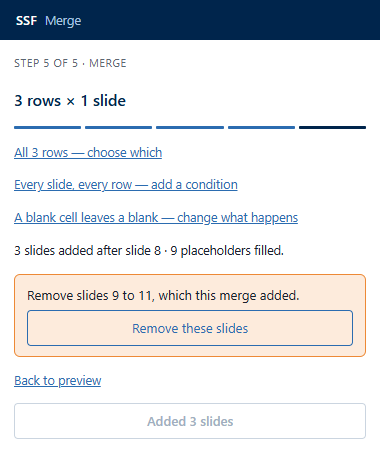
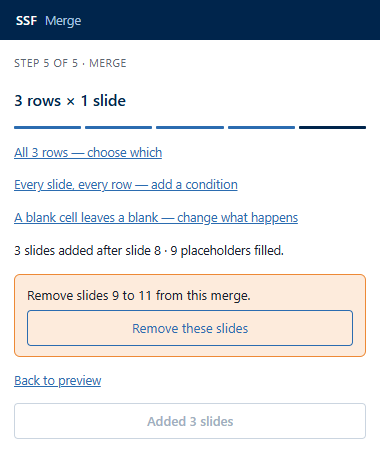
A one-slide block said "Use slides 2 to 2" (#218)
Found in the real-host round of 2026-09-02.

A template block of a single slide put a range with itself at both ends
on the button — which reads as something the user mistyped rather than a
sentence the pane meant.

**Everything around it already got this right.** The take-back card says
"Remove slide 3 from this merge", the summary says "1 slide added", and
`blockName` has handled `from === to` since it was written. The manual's
own screenshot made it plain: the heading read **"Slide 3"** directly
above a button reading **"Use slides 3 to 3"**. The button was the one
place that built the phrase itself instead of asking. It asks
`blockName` now, lower-cased because the label is mid-sentence; the
multi-slide wording is unchanged.

`docs/MANUAL.md` documented the defect as though it were correct —
twice, including the alt text of the picture beside it. Both corrected,
and the pictures regenerated with `scripts/manual-shots.mjs`.

**Two of the regenerated pictures had drifted for a different reason**,
recorded here rather than quietly committed:

- `step-4-preview.png` still said *"removing the preview deletes them"*
— now *"deletes it"*
- `step-5-done.png` still said *"which this merge added"* — now *"from
this merge"*

Both were reworded in the release passes that landed before this, and
neither picture was refreshed with the copy. I checked each changed
region pixel-by-pixel before committing, rather than assuming the
regeneration was inert.
[…]

Changed region(s): [[0.4053, 0.6154, 0.7816, 0.6769]]

diff --git a/src/pane/steps.ts b/src/pane/steps.ts
@@ -14,7 +14,7 @@
 
 import { canBeField, whyNotAField } from "../core/merge/text.js";
 import type { EmptyPolicy } from "../core/merge/resolve.js";
-import { plural } from "./summary.js";
+import { blockName, plural } from "./summary.js";
 import { recordIsSkipped, slideApplies } from "../core/merge/plan.js";
 import { baseName } from "../core/merge/images.js";
 import { imageNamesIn, parseDelimited, toRecordSet } from "../core/data/recordset.js";
@@ -1189,7 +1189,17 @@ export function primary(state: PaneState, step: StepId): Primary {
   switch (step) {
     case "template":
       return block
-        ? { label: `Use slides ${block.from} to ${block.to}`, enabled: true, advances: "data" }
+        ? // `blockName`, not a range spelled out again here. A one-slide block
+          // read "Use slides 2 to 2" — a range with itself at both ends, which
+          // looks like something the user mistyped rather than a sentence the
+          // pane meant. Everything around it already asks: the take-back card
+          // says "Remove slide 3 from this merge", the summary says "1 slide
+          // added", and `blockName` has handled `from === to` since it was
+          // written. This was the one place that built the phrase itself.
+          //
+          // Lower-cased because the label is mid-sentence and `blockName`
+          // returns a sentence subject. The multi-slide wording is unchanged.
+          { label: `Use ${blockName(block).toLowerCase()}`, enabled: true, advances: "data" }
         : { label: "Choose the slides that repeat", enabled: false, advances: "data" };
     case "data":
       // "Attach data" is what the step is FOR, so it stays the label until

diff --git a/test/pane-steps.test.ts b/test/pane-steps.test.ts
@@ -418,6 +418,23 @@ describe("which block the pane acts on", () => {
     expect(primary(state, "template").label).toBe("Use slides 7 to 9");
   });
 
+  it("says slide, singular, when the block is one slide", () => {
+    /**
+     * Found in the real-host round of 2026-09-02. A one-slide template block
+     * put "Use slides 2 to 2" on the button - a range with itself at both ends,
+     * which reads as a mistake the user has made rather than a sentence the
+     * pane meant.
+     *
+     * Everything around it already gets this right: the take-back card says
+     * "Remove slide 3 from this merge", the summary says "1 slide added", and
+     * `blockName` has handled `from === to` since it was written. The button
+     * was the one place that built the phrase itself instead of asking.
+     */
+    const state: PaneState = { ...ready, draft: { from: "3", to: "3" } };
+    expect(primary(state, "template").label).toBe("Use slide 3");
+    expect(primary(state, "template").label).not.toContain("3 to 3");
+  });
+
   it("keeps the committed block while a box is being retyped", () => {
     // Mid-edit the draft reads nothing. Dropping the block there would blank
     // the heading and the button on every keystroke.

diff --git a/CHANGELOG.md b/CHANGELOG.md
@@ -7,6 +7,40 @@ and this project uses [semantic versioning](https://semver.org/spec/v2.0.0.html)
 
 ## [Unreleased]
 
+### Fixed — a one-slide block said "Use slides 2 to 2"
+
+Found in the real-host round of 2026-09-02. A template block of a single slide
+put a range with itself at both ends on the button, which reads as something the
+user mistyped rather than a sentence the pane meant.
+
+Everything around it already got this right. The take-back card says "Remove
+slide 3 from this merge", the summary says "1 slide added", and `blockName` has
+handled `from === to` since it was written — the heading directly above the
+button in the manual's own screenshot said "Slide 3". The button was the one
+place that spelled the phrase out again instead of asking, so it read "Use
+slides 3 to 3" under a heading that read "Slide 3". It asks `blockName` now.
+
+`docs/MANUAL.md` documented the defect as though it were correct, twice,
+including the alt text of the picture beside it. Both are corrected, and the
+pictures were regenerated with `scripts/manual-shots.mjs`.
+
+**Two of the regenerated pictures had drifted for another reason**, and it is
+worth recording rather than quietly committing: `step-4-preview.png` still said
+"removing the preview deletes them" and `step-5-done.png` still said "which this
+merge added". Both were reworded in the release passes that landed before this,
+and neither picture was refreshed with the copy. They are correct now.
+
+### Not fixed, and deliberately
+
+The same "slides N to M" shape is built by hand in five more places, none of
+them the button and none with a test pinning the singular case:
+`core/merge/prepare.ts:122`, `host/capability.ts:178`, `office/merge.ts:276`,
+`office/powerpoint.ts:542` and `:592`. They are refusal reasons and run-log
+details rather than a control the user presses, they sit in three layers that
+cannot share the pane's `blockName`, and widening a wording fix across them
+straight after a release round is a change to make deliberately rather than in
+passing.
+
 ### Fixed — a recovery notice that said the pane closed before a press that happened
 
 Found by the real-host round of 2026-09-02 on PowerPoint for the web. Six slides

diff --git a/docs/MANUAL.md b/docs/MANUAL.md
@@ -113,11 +113,11 @@ several slides in a row; one is enough to start.
 
 Open the pane: **Home** tab → **Mail merge**. Type `3` into both boxes.
 
-![Step 1 of the pane: first slide 3, last slide 3, and a button reading "Use slides 3 to 3"](images/step-1-template.png)
+![Step 1 of the pane: first slide 3, last slide 3, and a button reading "Use slide 3"](images/step-1-template.png)
 
 The button reads **Choose the slides that repeat** until the numbers make
-sense, then becomes **Use slides 3 to 3**. Press it — the pane reads that slide
-out of the open deck and moves on.
+sense, then becomes **Use slide 3** — singular, because the block is one slide.
+Press it, and the pane reads that slide out of the open deck and moves on.
 
 ### Step 2 — Data
 
